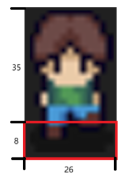
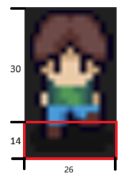
accomplish the block system

Changed region(s): [[0.0625, 0.3315, 0.1875, 0.4144], [0.0938, 0.7459, 0.1562, 0.8011]]

diff --git a/libEntity/Hero.cpp b/libEntity/Hero.cpp
@@ -21,13 +21,13 @@ void Hero::update()
     Sprite::update();
     anima[state].update();
     // Reset the collider
-    collider = QRect(position.x(), position.y()+35, pixmap.width(), pixmap.height()-35);
+    collider = QRect(position.x(), position.y()+30, pixmap.width(), pixmap.height()-30);
     
     // edge block
     if(this->position.y()<0) blockState = block_up;
-    if(this->position.y()>MAP_HEIGHT*CUBE_LENGTH) blockState = block_down;
+    if(this->position.y()>MAP_HEIGHT*CUBE_LENGTH-pixmap.height()) blockState = block_down;
     if(this->position.x()<0) blockState = block_left;
-    if(this->position.x()>MAP_WIDTH*CUBE_LENGTH) blockState = block_right;
+    if(this->position.x()>MAP_WIDTH*CUBE_LENGTH-pixmap.width()) blockState = block_right;
 
     // limit the position of the Hero
     switch (blockState)

diff --git a/Game.cpp b/Game.cpp
@@ -54,6 +54,7 @@ void Game::drawGame(QPainter *painter)
 void Game::updateGame()
 {
     Mgr->update();
+    collitionDetect();
 }
 
 void Game::cleanGame()
